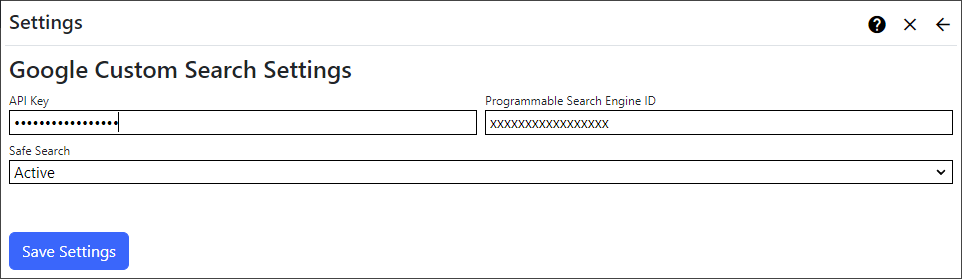
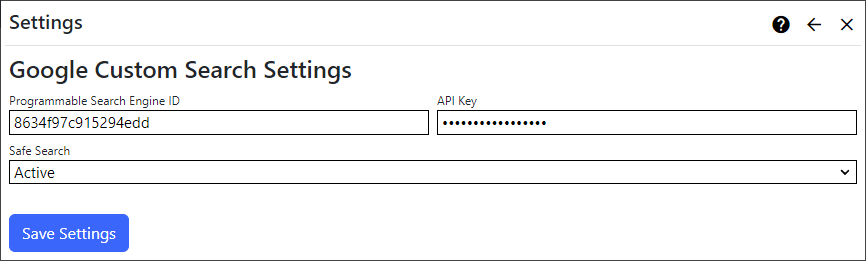
Updated UI and documentation.

diff --git a/Nucleus.Core.Modules/Nucleus.Extensions.GoogleCustomSearch/Documentation/GoogleCustomSearch.md b/Nucleus.Core.Modules/Nucleus.Extensions.GoogleCustomSearch/Documentation/GoogleCustomSearch.md
@@ -1,8 +1,8 @@
 ## Google Custom Search Extension
 The Google Custom Search extension provides a search provider using the Custom Search API to retrieve search results.  
 
-The Google Custom Search extension uses the Google Custom Search API to deliver search results for your site. To set it up, you'll need to configure 
-the Programmable Search Engine, which will provide you with a Search Engine ID and require a valid API Key to interact with the Custom Search API.
+The extension uses the Google Custom Search API to deliver search results for your site. To set it up, you'll need a Search Engine ID and an
+API Key to interact with the Custom Search API. Refer to the Settings on how to obtain the Search Engine ID and API Key.
 
 The Google Custom Search extension settings are accessed in the `Manage` control panel.
 
@@ -13,27 +13,20 @@ The Google Custom Search extension settings are accessed in the `Manage` control
 {.table-25-75}
 |                               |                                                                                      |
 |-------------------------------|--------------------------------------------------------------------------------------|
-| API Key                       | Enter the Google API Key via the [Cloud console](https://console.cloud.google.com/apis/credentials). The key can call enabled Google APIs or restricted to selected APIs. |
-| Programmable Search Engine ID | Visit [Programmable Search Engine site](https://programmablesearchengine.google.com/controlpanel/all) and add search engine details to generate a Search engine ID. |
-| Safe Search                   | Enable SafeSearch filtering for your search engine. |
-
-## API Key
-You need to create credentials in the form of an API key to access the Custom Search API. The API key can be create via the [Cloud console](https://console.cloud.google.com/apis/credentials)
-and for security can be set limited access using application restriction and/or API restriction.  You can read more on the recommendations for [securing an API Key](https://cloud.google.com/docs/authentication/api-keys?_gl=1*utft3f*_ga*ODMxOTc0NzQ2LjE3MTM0MTkzOTc.*_ga_WH2QY8WWF5*MTcyNDczMTQ1NS4zNi4xLjE3MjQ3MzI5OTAuMTYuMC4w#securing).
-
-### Application Restrictions
-Options for application restrictions on an API key are `'no restrictions'`, `'specific websites'`, `'IP Addresses'`, `'Android'` or `'IOS'` apps. Only one application restriction is applied per key.
-
-### API Restrictions
-The API key can also restrict access to specified APIs that have been enabled.
+| Programmable Search Engine ID | Visit [Programmable Search Engine site](https://programmablesearchengine.google.com/controlpanel/all) to generate a Search engine ID. |
+| API Key                       | Get the Google API Key via the [Cloud console](https://console.cloud.google.com/apis/credentials). Refer to the API section below for more details. Refer to the Programmable Search Engine below for more details. |
+| Safe Search                   | Configure SafeSearch filtering for your search engine. |
 
 ## Programmable Search Engine 
-Google Programmable Search Engine allows the user to use the Custom Search API to search for information on your sites. The search engine can be customized for 
-more relevant results.
+Generate your Search Engine ID by creating a search engine.  The Google Programmable Search Engine [control panel documentation](http://support.google.com/programmable-search/) 
+provides more information on customizing the Custom Search API on retrieving information from your sites. You can specify areas of your site with the possibilities of 
+including and excluding pages or sites in your configuration.  It can be also be customized with additional security, UI, statistics and logging features. 
 
-### Search Features
-Google Custom Search can be used to match specific areas of your site. Visit [Update sites in your search engine](https://support.google.com/programmable-search/answer/12397162) to 
-view the possibilities of including and excluding pages or sites in your search engine.
+## API Key
+You will need to create credentials in the form of an API key to access the Custom Search API. The API key can be create via the [Cloud console](https://console.cloud.google.com/apis/credentials)
+and for security can be set limited access using application restriction and/or API restriction.  You can read more on the recommendations 
+for [securing an API Key](https://cloud.google.com/docs/authentication/api-keys).
+
 
 
 
